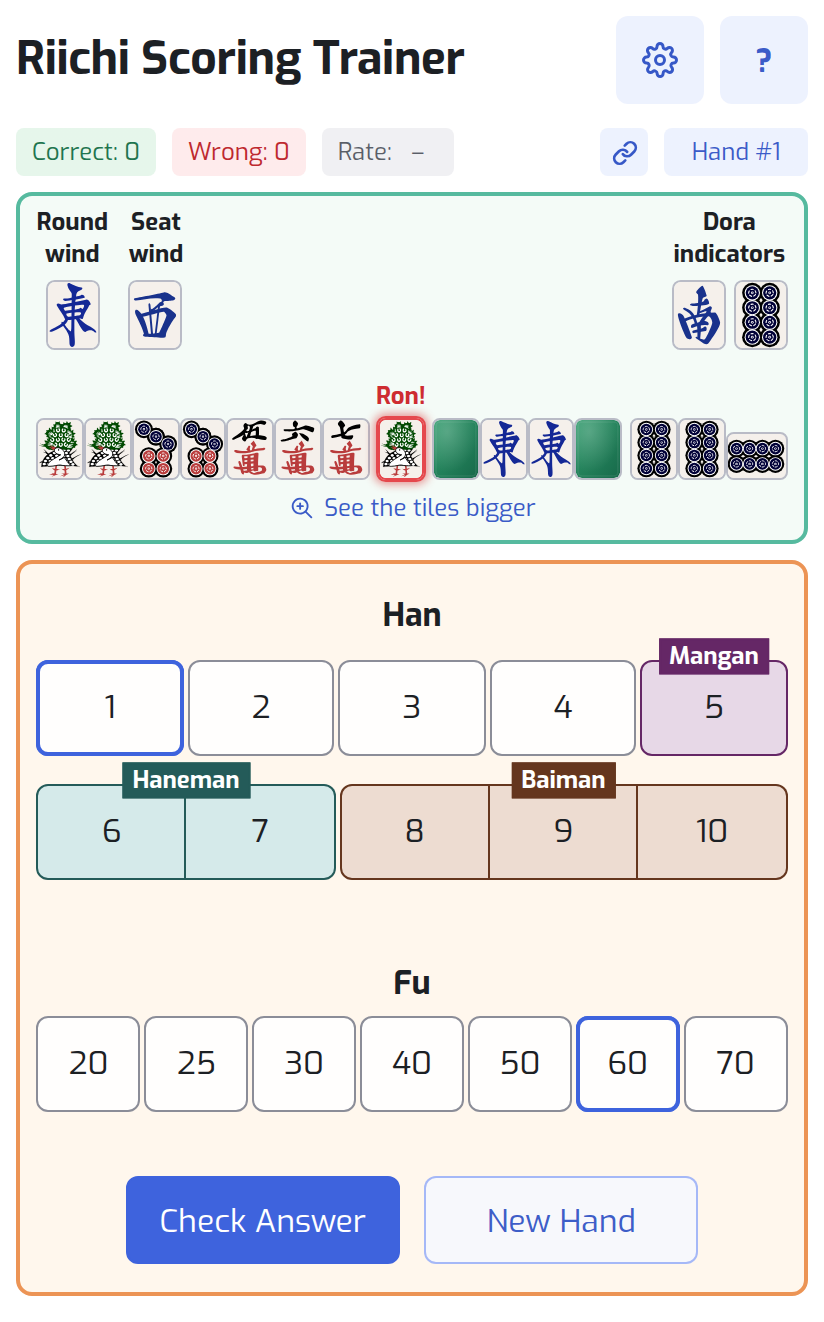
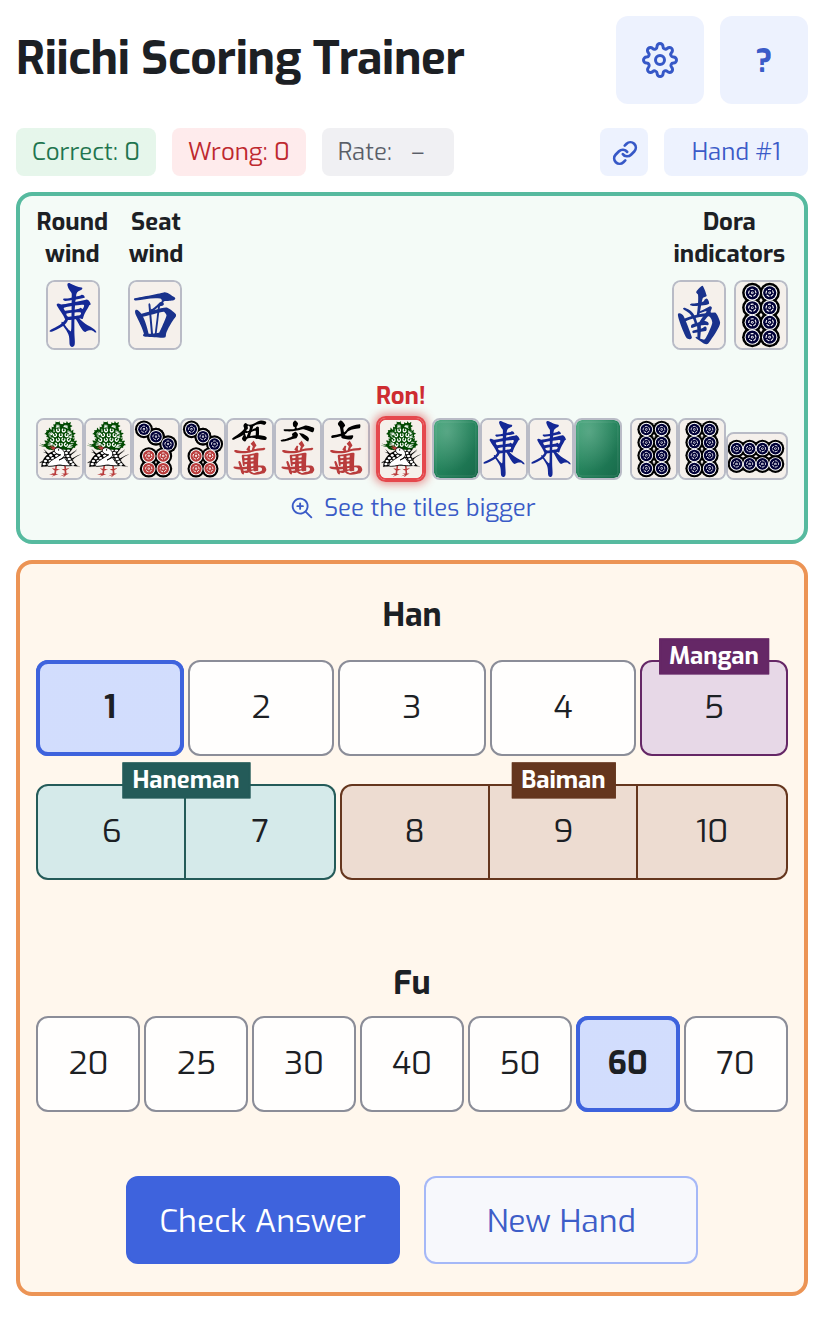
tint the picked han and fu (#19)
- Improve visibility of selected han/fu option
- redraw the baselines
- retake the light mode README screenshot

Changed region(s): [[0.0303, 0.4962, 0.2427, 0.5893], [0.6978, 0.7443, 0.8192, 0.8374]]

diff --git a/src/App.css b/src/App.css
@@ -1495,9 +1495,36 @@ html.dark:not(.high-contrast) .radix-themes {
   border-color: var(--gray-8);
 }
 
+/* A ring alone is easy to miss among the other choices' borders, so a picked
+   choice is tinted too. The tint is an image, not a background color, so it
+   lies over the choice's own color and a picked limit choice keeps a trace of
+   its group's. */
+.choices:not([aria-readonly='true'])
+  .choice[data-state='checked']:not(:disabled) {
+  background-image: linear-gradient(var(--accent-a5), var(--accent-a5));
+  font-weight: 700;
+}
+
+.dark
+  .choices:not([aria-readonly='true'])
+  .choice[data-state='checked']:not(:disabled) {
+  background-image: linear-gradient(var(--accent-a7), var(--accent-a7));
+}
+
 @media (hover: hover) {
   .choices:not([aria-readonly='true']) .choice:hover:not(:disabled) {
     background-image: linear-gradient(var(--gray-a3), var(--gray-a3));
+  }
+
+  .choices:not([aria-readonly='true'])
+    .choice[data-state='checked']:hover:not(:disabled) {
+    background-image: linear-gradient(var(--accent-a6), var(--accent-a6));
+  }
+
+  .dark
+    .choices:not([aria-readonly='true'])
+    .choice[data-state='checked']:hover:not(:disabled) {
+    background-image: linear-gradient(var(--accent-a8), var(--accent-a8));
   }
 
   .choices:not([aria-readonly='true'])
